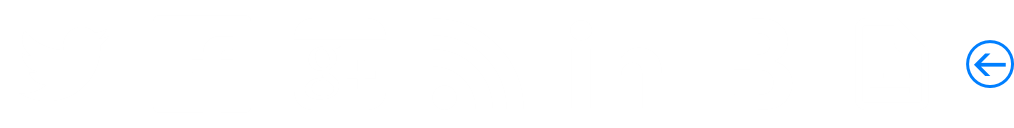
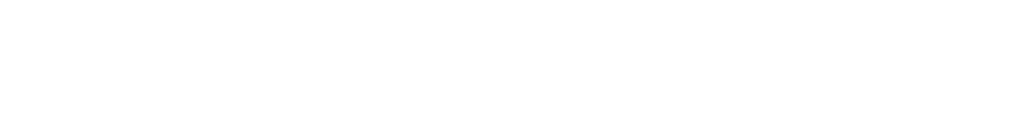
Implemented the new layout for blog pages

Changed region(s): [[0.9477, 0.3125, 1.0, 0.6875]]

diff --git a/_layouts/post.html b/_layouts/post.html
@@ -2,86 +2,73 @@
 layout: master
 ---
 
-<div class="container">
-
-	<header class="row">
-	  <div class="col-md-12 col-xs-12">
-	    <h1>
-	      <a href="http://blog-olakara.rhcloud.com">
-	        <div class="icon icon-back" style="width: 48px;height: 48px;float: left;"></div>
-	         &nbsp;&nbsp;&nbsp; Abdel Raoof's Blog
-	       </a>
-	     </h1>
-	  </div>
-	</header>	
-	
-
-  <div class="row">
-    <article class="col-md-12 col-xs-12 justified">
-      <h1 class="post-title">{{ page.title }}</h1>
-      <div class="publish-tag">
-        <span class="fa fa-calendar"></span>&nbsp;Published On {{ page.date | date: "%B %d, %Y" }}
+      <div class="container-fluid" style="min-height:100%;overflow:hidden">
+        <div class="row">
+          <div class="hidden-xs col-md-2 blue colx">
+            <aside>
+              <div class="row">
+                  <div class="col-md-12 text-center">
+                		<h1><a href="{{sit.url}}/blog" style="color:white;text-decoration:none">Blog</a></h1>
+              	</div>
+              </div>
+            </aside>
+          </div>
+          <div class="col-md-10 colx">
+            <article class="col-md-12 col-xs-12 justified">
+              <h1 class="post-title">{{ page.title }}</h1>
+              <div class="publish-tag">
+                <span class="fa fa-calendar"></span>&nbsp;Published On {{ page.date | date: "%B %d, %Y" }}
+              </div>
+              {{ content }}
+              <br/>
+              <span class="fa fa-tag"></span>Tags:
+              {% if page.tags %}
+                {% for tag in page.tags %}		
+                  <a href="/tags/{{tag}}"><span class="label label-primary">{{tag}}</span></a>
+                {% endfor %}
+              {% else %}  
+                None
+              {% endif %}
+              <br/><br/>
+              <h4>Comments:</h4>
+              <div id="disqus_thread"></div>
+              <script type="text/javascript">
+                /* * * CONFIGURATION VARIABLES: EDIT BEFORE PASTING INTO YOUR WEBPAGE * * */
+                var disqus_shortname = 'testingblogo';
+        
+                /* * * DON'T EDIT BELOW THIS LINE * * */
+                (function() {
+                    var dsq = document.createElement('script'); dsq.type = 'text/javascript'; dsq.async = true;
+                    dsq.src = '//' + disqus_shortname + '.disqus.com/embed.js';
+                    (document.getElementsByTagName('head')[0] || document.getElementsByTagName('body')[0]).appendChild(dsq);
+                })();
+              </script>
+              <noscript>Please enable JavaScript to view the <a href="http://disqus.com/?ref_noscript">comments powered by Disqus.</a></noscript>
+              <a href="http://disqus.com" class="dsq-brlink">comments powered by <span class="logo-disqus">Disqus</span></a>
+            </article>
+			
+			
+            
+            <div class="row">
+              <div class="col-sm-6 col-xs-6 text-left">
+               	{% if page.previous.url %}
+              	<a class="btn btn-primary" href="{{page.previous.url}}">← Previous</a>
+              {% else %}
+              	<span class="btn btn-primary disabled">← Previous</span>
+              {% endif %}
+              </div>
+              <div class="col-sm-6 col-xs-6 text-right">
+                    {% if page.next.url %}
+              	<a class="btn btn-primary" href="{{page.next.url}}">Next →</a>
+              {% else %}
+              	<span class="btn btn-primary disabled">Next →</span>
+              {% endif %} 
+              </div>
+            </div>
+          </div>
+          
+          {% include footer.html %}             
+        </div>        
       </div>
-      {{ content }}
-      <br/>
-      <span class="fa fa-tag"></span>Tags:
-      {% if page.tags %}
-        {% for tag in page.tags %}		
-          <a href="/tags/{{tag}}"><span class="label label-primary">{{tag}}</span></a>
-        {% endfor %}
-      {% else %}  
-        None
-      {% endif %}
-      <br/><br/>
-      <div class="row">
-        <div class="col-sm-6 col-xs-6 text-left">
-         	{% if page.previous.url %}
-        	<a class="btn btn-primary" href="{{page.previous.url}}">← Previous</a>
-        {% else %}
-        	<span class="btn btn-primary disabled">← Previous</span>
-        {% endif %}
-        </div>
-        <div class="col-sm-6 col-xs-6 text-right">
-              {% if page.next.url %}
-        	<a class="btn btn-primary" href="{{page.next.url}}">Next →</a>
-        {% else %}
-        	<span class="btn btn-primary disabled">Next →</span>
-        {% endif %} 
-        </div>
-      </div>
-      <br/><br/>
-      <h4>Comments:</h4>
-      <div id="disqus_thread"></div>
-      <script type="text/javascript">
-        /* * * CONFIGURATION VARIABLES: EDIT BEFORE PASTING INTO YOUR WEBPAGE * * */
-        var disqus_shortname = 'testingblogo';
-
-        /* * * DON'T EDIT BELOW THIS LINE * * */
-        (function() {
-            var dsq = document.createElement('script'); dsq.type = 'text/javascript'; dsq.async = true;
-            dsq.src = '//' + disqus_shortname + '.disqus.com/embed.js';
-            (document.getElementsByTagName('head')[0] || document.getElementsByTagName('body')[0]).appendChild(dsq);
-        })();
-    </script>
-    <noscript>Please enable JavaScript to view the <a href="http://disqus.com/?ref_noscript">comments powered by Disqus.</a></noscript>
-    <a href="http://disqus.com" class="dsq-brlink">comments powered by <span class="logo-disqus">Disqus</span></a>
-    
-    </article>
-  </div>
-  
-  <div class="related">
-    <h4>Related Posts:</h4>
-    <ul class="related-posts">
-      {% for post in site.related_posts limit:3 %}
-        <li>
-          <h6>
-            <a href="{{ post.url }}">
-              {{ post.title }}
-              <small>{{ post.date | date_to_string }}</small>
-            </a>
-          </h6>
-        </li>
-      {% endfor %}
-    </ul>
-  </div>
-  
+      
+      

diff --git a/blog/index.html b/blog/index.html
@@ -4,55 +4,58 @@ title: Abdel Raoof's Blog
 ---
 
 
-<div class="container">
-
-	<header class="row">
-	  <div class="col-md-12">
-	    <h1>
-	      <a href="http://blog-olakara.rhcloud.com">
-	        <div class="icon icon-back" style="width: 48px;height: 48px;float: left;"></div>
-	         &nbsp;&nbsp;&nbsp; Abdel Raoof's Blog
-	       </a>
-	     </h1>
-	  </div>
-	</header>	
-	
-  <div class="row">
-    {% for post in paginator.posts %}
-    <article class="col-md-12 justified">
-      <h1 class="post-title">
-        <a href="{{site.baseurl}}{{ post.url }}">
-          {{ post.title }}
-        </a>
-      </h1>
-      <div class="publish-tag">
-        <span class="fa fa-calendar"></span>&nbsp;PUBLISHED ON {{ post.date | date: "%B %d, %Y" }}
-      </div>
-      <br/>
-      {{ post.content }}
-    </article>
-    {% endfor %}
-  </div>
-  <br/>
+      <div class="container-fluid" style="min-height:100%;overflow:hidden">
+        <div class="row">
+          <div class="hidden-xs col-md-2 blue colx">
+            <aside>
+              <div class="row">
+                  <div class="col-md-12 text-center">
+                		<h1><a href="{{sit.url}}/blog" style="color:white;text-decoration:none">Blog</a></h1>
+              	</div>
+              </div>
+            </aside>
+          </div>
+          <div class="col-md-10 colx">
+            <div class="row">
+              {% for post in paginator.posts %}
+              <article class="col-md-12 justified">
+                <h1 class="post-title">
+                  <a href="{{site.baseurl}}{{ post.url }}">
+                    {{ post.title }}
+                  </a>
+                </h1>
+                <div class="publish-tag">
+                  <span class="fa fa-calendar"></span>&nbsp;PUBLISHED ON {{ post.date | date: "%B %d, %Y" }}
+                </div>
+                <br/>
+                {{ post.content }}
+              </article>
+              {% endfor %}
+            </div>
+            <br/>
   
-  <div class="row">
-    <div class="col-sm-6 text-left">
-        {% if paginator.next_page %}
-        <a class="btn btn-primary" href="{{paginator.next_page_path}}">← Older</a>
-        {% else %}
-        <span class="btn btn-primary disabled">← Older</span>
-        {% endif %}
-    </div>
-    <div class="col-sm-6 text-right">
-        {% if paginator.previous_page %}
-          {% if paginator.page == 2 %}
-            <a class="btn btn-primary" href="/blog/">Newer →</a>
-          {% else %}
-            <a class="btn btn-primary" href="{{paginator.previous_page_path}}">Newer →</a>
-          {% endif %}
-        {% else %}
-          <span class="btn btn-primary disabled">Newer →</span>
-        {% endif %}
-    </div>
-  </div>
-</div>
+            <div class="row">
+              <div class="col-sm-6 text-left">
+                  {% if paginator.next_page %}
+                  <a class="btn btn-primary" href="{{paginator.next_page_path}}">← Older</a>
+                  {% else %}
+                  <span class="btn btn-primary disabled">← Older</span>
+                  {% endif %}
+              </div>
+              <div class="col-sm-6 text-right">
+                  {% if paginator.previous_page %}
+                    {% if paginator.page == 2 %}
+                      <a class="btn btn-primary" href="/blog/">Newer →</a>
+                    {% else %}
+                      <a class="btn btn-primary" href="{{paginator.previous_page_path}}">Newer →</a>
+                    {% endif %}
+                  {% else %}
+                    <span class="btn btn-primary disabled">Newer →</span>
+                  {% endif %}
+              </div>
+            </div>
+            
+            {% include footer.html %}
+          </div>
+        </div>
+      </div>  

diff --git a/_includes/footer.html b/_includes/footer.html
@@ -1,21 +1,15 @@
-<footer>
-    <div class="container">
-    	<div class="row">
-    		<div class="col-ms-12 text-center">
-    			<a href="#"> About Me </a>&nbsp;<i class="fa fa-asterisk"></i>&nbsp;<a href="#"> Blog </a>&nbsp;<i class="fa fa-asterisk"></i>&nbsp; <a href="#"> Contact Me </a> <br/>
-    			<hr/>
-    				&copy; {{ site.time | date: '%Y' }} - {{site.author}}. All rights reserved.
-    		</div>
-    	</div>
-    </div>
-</footer>
-<script>
-  (function(i,s,o,g,r,a,m){i['GoogleAnalyticsObject']=r;i[r]=i[r]||function(){
-  (i[r].q=i[r].q||[]).push(arguments)},i[r].l=1*new Date();a=s.createElement(o),
-  m=s.getElementsByTagName(o)[0];a.async=1;a.src=g;m.parentNode.insertBefore(a,m)
-  })(window,document,'script','//www.google-analytics.com/analytics.js','ga');
-
-  ga('create', '{{site.gahandler}}', 'blog-olakara.rhcloud.com');
-  ga('send', 'pageview');
-
-</script>
+      <footer class="row">
+      		<div class="col-ms-12 text-center">
+        			<hr/>
+          				&copy; {{ site.time | date: '%Y' }} - {{site.author}}. All rights reserved.
+      		</div>
+      </footer>
+      <script>
+        (function(i,s,o,g,r,a,m){i['GoogleAnalyticsObject']=r;i[r]=i[r]||function(){
+        (i[r].q=i[r].q||[]).push(arguments)},i[r].l=1*new Date();a=s.createElement(o),
+        m=s.getElementsByTagName(o)[0];a.async=1;a.src=g;m.parentNode.insertBefore(a,m)
+        })(window,document,'script','//www.google-analytics.com/analytics.js','ga');
+      
+        ga('create', '{{site.gahandler}}', 'blog-olakara.rhcloud.com');
+        ga('send', 'pageview');
+      </script>

diff --git a/assets/css/app.css b/assets/css/app.css
@@ -13,6 +13,10 @@
     text-decoration:none !important;
 }
 
+.colx {
+margin-bottom:-9999px;padding-bottom:9999px;
+}
+
 .container > header {
 	color: #2672EC;
 }
@@ -27,15 +31,10 @@
 	margin-bottom: 30px;
 	height: 160px;
 }
-  
-.title {
-	margin-top: 0px;
-}
-  
 
 .purple, .blue, .red, .orange, .green {
     color: #fff;
-  }
+}
   
 .purple {
     background: #5133AB;
@@ -62,6 +61,7 @@
     background-repeat: no-repeat;   
     list-style: none outside none;
 }	
+
 .icon-twitter{background-position:0px 0px ; width: 128px ; height: 128px; }
 .icon-facebook{background-position:-138px 0px ; width: 128px ; height: 128px; }
 .icon-googleplus{background-position:-276px 0px ; width: 128px ; height: 128px; }

diff --git a/_layouts/page.html b/_layouts/page.html
@@ -5,13 +5,15 @@ layout: master
 <div class="container">
 
 	<header class="row">
-	  <div class="col-md-12">
-	    <a href="http://blog-olakara.rhcloud.com/">
+	  <div class="col-md-12 col-xs-12">
+	    <h1>
+	      <a href="http://blog-olakara.rhcloud.com">
 	        <div class="icon icon-back" style="width: 48px;height: 48px;float: left;"></div>
-	    </a>
-	    <h1>{{ page.title }}</h1>
+	         &nbsp;&nbsp;&nbsp; {{page.title}}
+	       </a>
+	     </h1>
 	  </div>
-	</header>	
+	</header>
 
   <div class="row">
     <article class="col-md-12 justified">

diff --git a/assets/css/bootstrap.css b/assets/css/bootstrap.css
@@ -13,6 +13,7 @@ html {
 }
 body {
   margin: 0;
+  height: 100%;
 }
 article,
 aside,
@@ -3635,8 +3636,7 @@ select[multiple].input-group-sm > .input-group-btn > .btn {
 .label {
   display: inline;
   padding: .2em .6em .3em;
-  font-size: 75%;
-  font-weight: bold;
+  font-size: 100%;
   line-height: 1;
   color: #ffffff;
   text-align: center;

diff --git a/_layouts/master.html b/_layouts/master.html
@@ -1,11 +1,7 @@
 <!DOCTYPE html>
 <html class="no-js">
-
   {% include head.html %}
-
   <body>
       {{ content }}
-      
-      {% include footer.html %}
   </body>
 </html>
